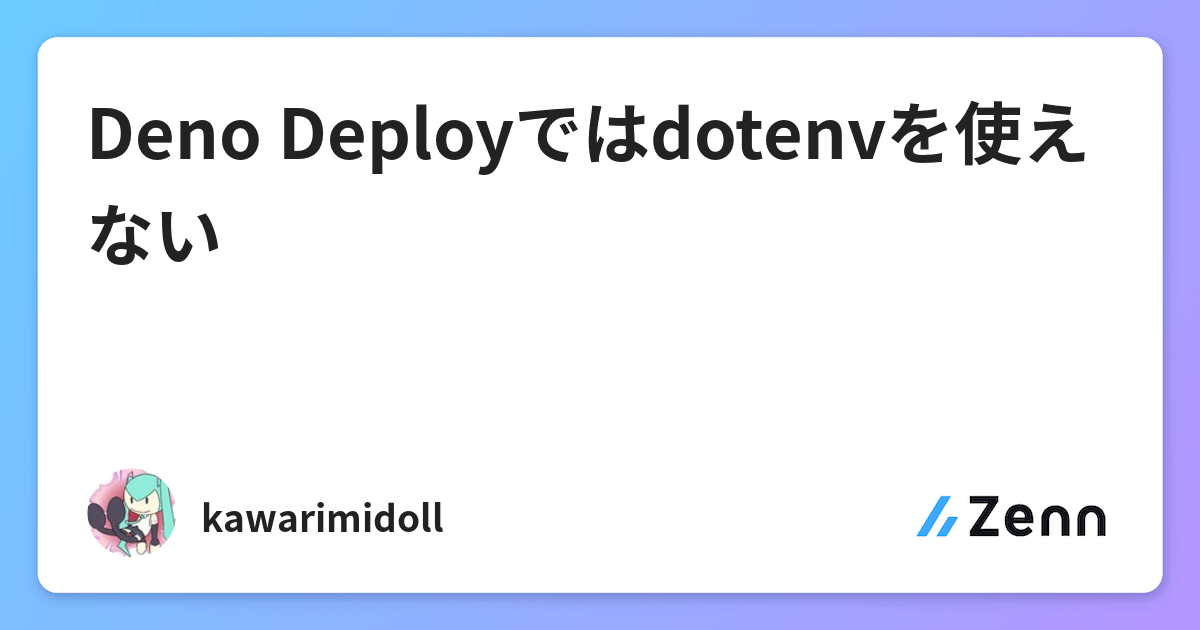
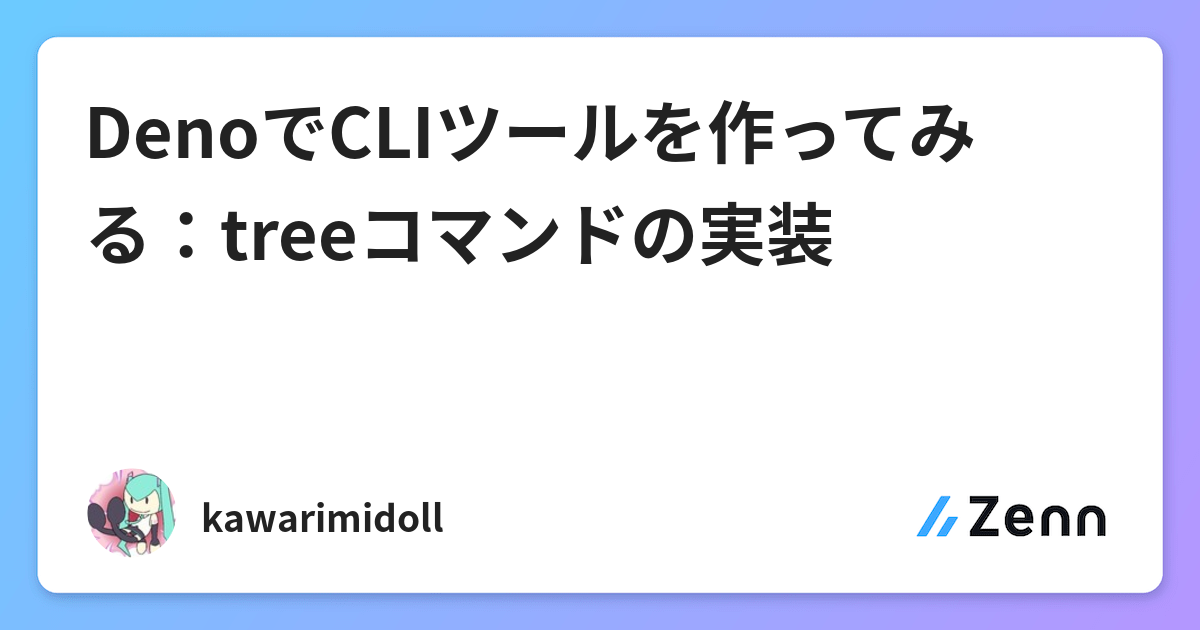
update profile

Changed region(s): [[0.0617, 0.1508, 0.925, 0.2714], [0.0617, 0.3016, 0.7092, 0.4222]]

diff --git a/README.md b/README.md
@@ -49,7 +49,7 @@ Here are some ideas to get you started:
 
 <p align="center">
 <!-- zenn-article-link-next-line -->
-<a href="https://zenn.dev/kawarimidoll/articles/752f74860d0d78"><img alt="Zenn" src="assets/zenn.png"></a>
+<a href="https://zenn.dev/kawarimidoll/articles/0f5bc71ae633f3"><img alt="Zenn" src="assets/zenn.png"></a>
 </p>
 
 ### 🗂 external profiles
